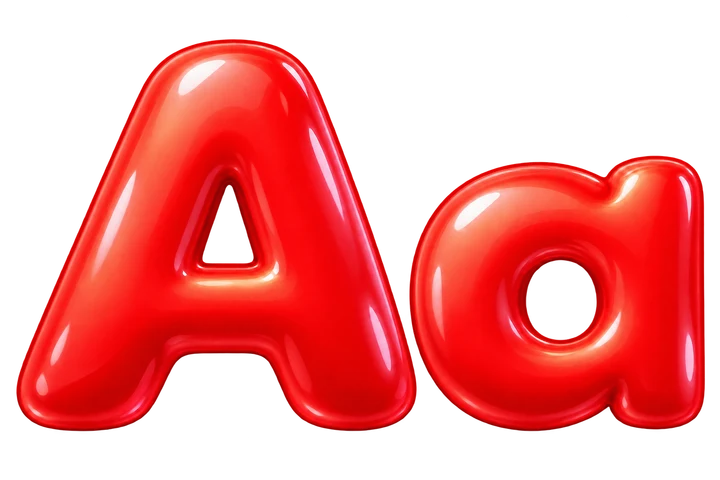
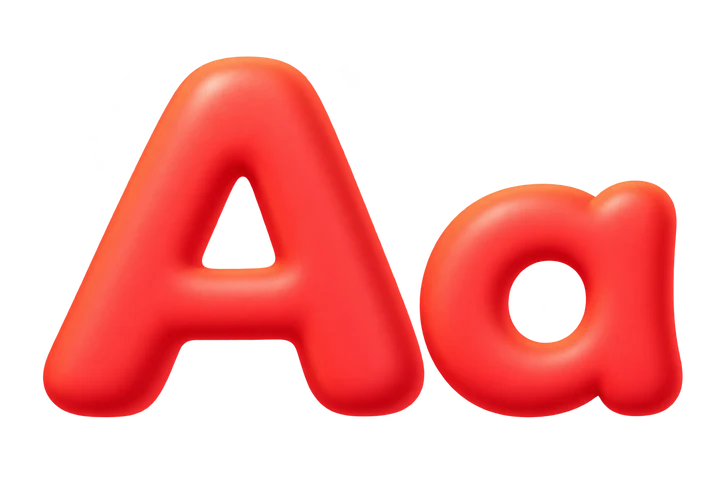
Replace metallic letter artwork with soft rounded kitten-style 3D lettering

diff --git a/sw.js b/sw.js
@@ -1,7 +1,7 @@
-const CACHE = 'letrin-v0-17';
+const CACHE = 'letrin-v0-18';
 const ASSETS = ['./', 'index.html', 'styles.css', 'app.js', 'manifest.json', 'assets/milo.webp', 'assets/garden.svg', 'assets/milo-peeking.webp', 'assets/milo-celebrando.webp', 'assets/abeja.webp', 'assets/avion.webp', 'assets/arbol.webp', 'assets/arana.webp'];
 self.addEventListener('install', event => {
-  ASSETS.push('styles.css?v=17','app.js?v=17','letter-path.js?v=17','assets/letra-a-roja.webp','assets/letra-a-verde.webp');
+  ASSETS.push('styles.css?v=18','app.js?v=18','letter-path.js?v=18','assets/letra-a-roja.webp','assets/letra-a-verde.webp');
   ASSETS.push(...['trazar','pintar','elegir','atrapar'].map(asset => `assets/actividad-${asset}.webp`));
   ASSETS.push(...['sol','oso','casa','pelota','luna','barco','flor','gato','banana'].map(asset => `assets/${asset}.webp`));
   ASSETS.push('letter-path.js','assets/fonts/nunito.ttf','assets/milo-fiesta-0.webp','assets/milo-fiesta-1.webp','assets/milo-fiesta-2.webp','assets/milo-fiesta-3.webp','assets/milo-fiesta-4.webp');

diff --git a/index.html b/index.html
@@ -6,7 +6,7 @@
   <meta name="theme-color" content="#34b6ff">
   <title>Letrín</title>
   <link rel="manifest" href="manifest.json">
-  <link rel="stylesheet" href="styles.css?v=17">
+  <link rel="stylesheet" href="styles.css?v=18">
 </head>
 <body>
   <main>
@@ -82,7 +82,7 @@
 
   <div id="toast" role="status" aria-live="polite"></div>
 
-  <script src="letter-path.js?v=17"></script>
-  <script src="app.js?v=17"></script>
+  <script src="letter-path.js?v=18"></script>
+  <script src="app.js?v=18"></script>
 </body>
 </html>
